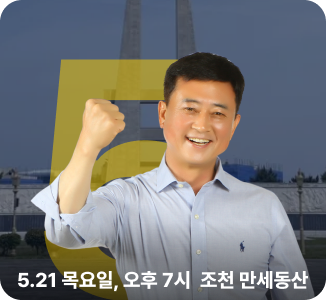
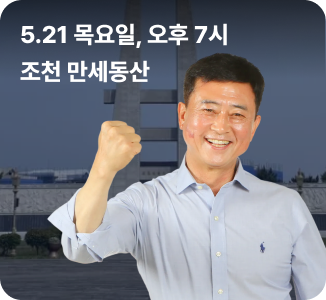
Update event sheet to new Figma (250:873): image + text
- 카드 교체(Figma 250:910): 날짜 상단 좌측 이동, 새 인물 컷,
  큰 '5' 제거, 상단 그라데이션 → 플랫 렌더 event-card.png 교체
- 본문(250:896): 좌측정렬 풀폭, 18px, tracking -0.54px, 3줄 고정
- 버튼행(250:898): px-20, 공유하기 flex-1 / 링크복사 auto+nowrap

diff --git a/app/components/EventBottomSheet.tsx b/app/components/EventBottomSheet.tsx
@@ -341,25 +341,28 @@ export default function EventBottomSheet() {
             </h2>
           </div>
 
-          {/* Body — Figma 241:714 / 242:808 justify-end: 240px block, right-aligned */}
+          {/* Body — Figma 250:896 (full width, left-aligned, 18px, 3 lines) */}
           <p
-            className="w-[240px] self-end font-semibold text-[#1c1c1c]"
+            className="w-full font-semibold text-[#1c1c1c]"
             style={{
               fontFamily: PRETENDARD,
-              fontSize: "15px",
-              letterSpacing: "-0.45px",
+              fontSize: "18px",
+              letterSpacing: "-0.54px",
               lineHeight: "28px",
             }}
           >
-            당의 이름이 아닌 조천읍의 이름으로 나섭니다. 저 김덕홍의 첫 걸음,
+            당의 이름이 아닌 조천읍의 이름으로 나섭니다.
+            <br />
+            저 김덕홍의 첫 걸음,
+            <br />
             여러분의 발걸음으로 완성해 주십시오!
           </p>
 
           {/* Divider — Figma 242:810 */}
           <div className="h-px w-full bg-[#dddddd]" />
 
-          {/* Actions — Figma 242:826 (share | copy-link) */}
-          <div className="flex items-stretch gap-[16px]">
+          {/* Actions — Figma 250:898 (share flex-1 | copy-link auto, row px-20) */}
+          <div className="flex items-center gap-[16px] px-[20px]">
             <button
               type="button"
               onClick={share}
@@ -387,7 +390,7 @@ export default function EventBottomSheet() {
             <button
               type="button"
               onClick={copyLink}
-              className="flex flex-1 items-center gap-[12px] overflow-hidden rounded-[8px] px-[4px] py-[6px] transition-colors hover:bg-black/[0.04] active:bg-black/[0.06]"
+              className="flex shrink-0 items-center gap-[12px] overflow-hidden rounded-[8px] px-[4px] py-[6px] transition-colors hover:bg-black/[0.04] active:bg-black/[0.06]"
             >
               <img
                 src="/icons/link.svg"
@@ -396,7 +399,7 @@ export default function EventBottomSheet() {
                 className="block h-[24px] w-[24px] shrink-0"
               />
               <span
-                className="font-semibold text-[#666666]"
+                className="whitespace-nowrap font-semibold text-[#666666]"
                 style={{
                   fontFamily: PRETENDARD,
                   fontSize: "15px",
